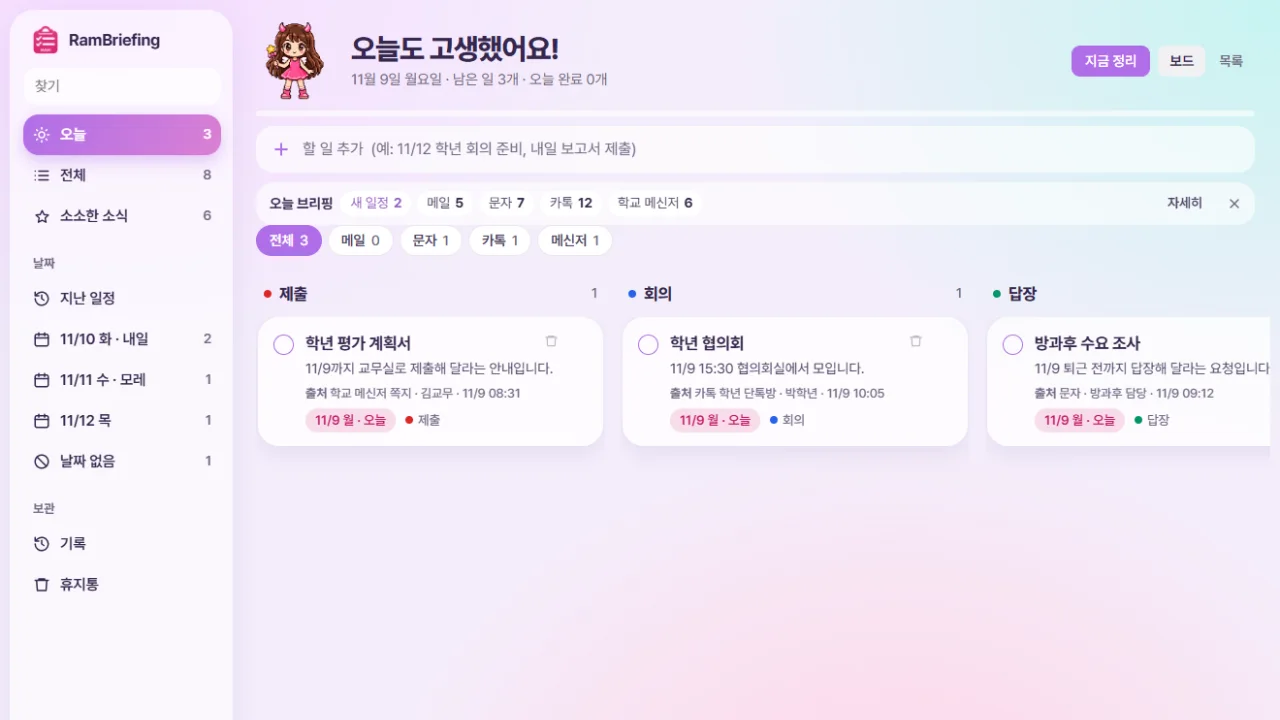
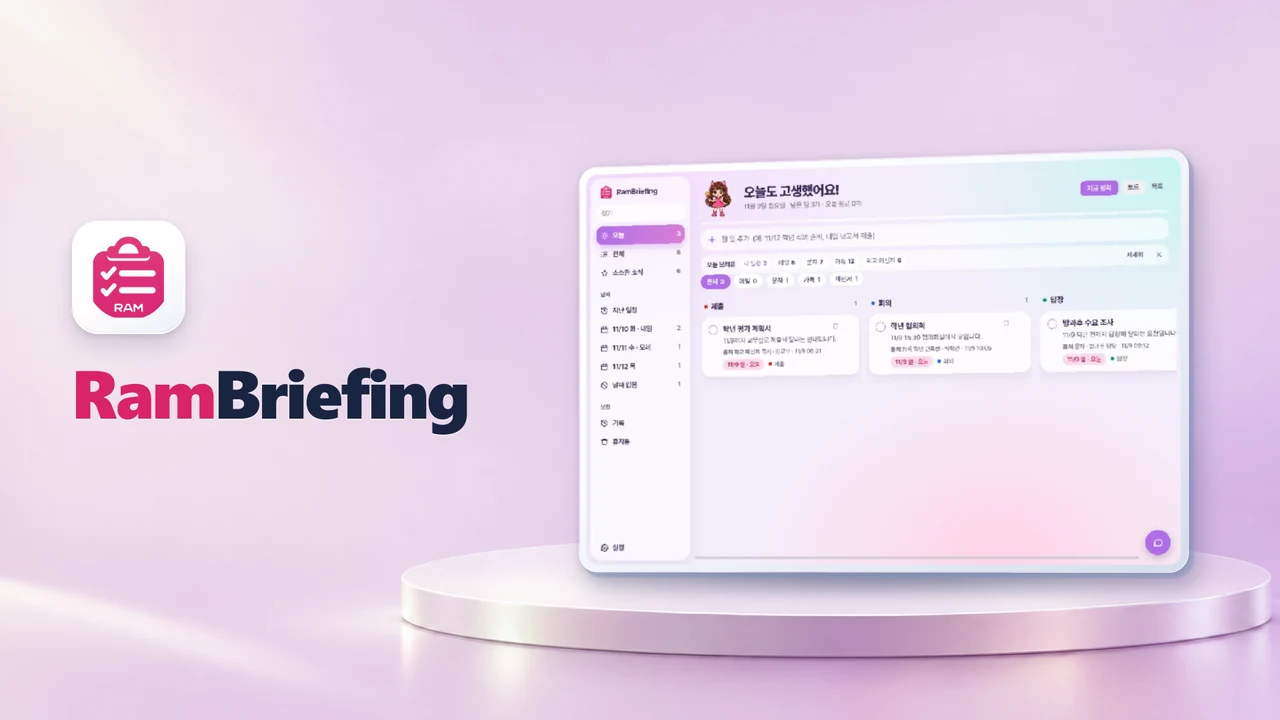
윈도우 앱 썸네일 6종 교체
Claude-Session: https://claude.ai/code/session_01GAFtkmkAShqGxSHJr2soeh

diff --git a/index.html b/index.html
@@ -3,7 +3,7 @@
 <head>
 <meta charset="utf-8">
 <meta http-equiv="Cache-Control" content="no-cache, no-store, must-revalidate"><meta http-equiv="Pragma" content="no-cache"><meta http-equiv="Expires" content="0">
-<script>(function(){var B="1794395400";fetch("version.json?t="+Date.now(),{cache:"no-store"}).then(function(r){return r.json()}).then(function(j){if(j&&j.v&&j.v!==B){var k="yr_rl_"+j.v;try{if(sessionStorage.getItem(k))return;sessionStorage.setItem(k,"1")}catch(e){}var u=new URL(location.href);u.searchParams.set("v",j.v);location.replace(u.toString())}}).catch(function(){})})();</script>
+<script>(function(){var B="1794397469";fetch("version.json?t="+Date.now(),{cache:"no-store"}).then(function(r){return r.json()}).then(function(j){if(j&&j.v&&j.v!==B){var k="yr_rl_"+j.v;try{if(sessionStorage.getItem(k))return;sessionStorage.setItem(k,"1")}catch(e){}var u=new URL(location.href);u.searchParams.set("v",j.v);location.replace(u.toString())}}).catch(function(){})})();</script>
 <meta name="color-scheme" content="light only">
 <meta name="viewport" content="width=device-width,initial-scale=1,viewport-fit=cover">
 <meta name="description" content="초등교사 김예람(예람쌤) — AI 영상·교육 콘텐츠 제작 연수, 영상·웹앱 콘텐츠, 연수 교안과 수업 자료">
@@ -1512,12 +1512,12 @@ const ARCHIVE={
     {t:"피자로 배우는 삼권분립",d:"피자 나누기로 권력을 나누는 이유를 알아보는 사회 수업 앱",tag:"웹앱",y:"2026",img:"apps/pizza.webp?v=4",url:"https://dpfkadpfka.github.io/pizza-samgwon/"},
     {t:"글자 조합 놀이터",d:"친구들이 모은 낱말을 글자로 쪼개 새 낱말 만들기",tag:"웹앱",y:"2026",img:"apps/jamo.webp?v=5",url:"https://dpfkadpfka.github.io/jamo-play/"},
     {t:"자리 바꾸기 레이스",d:"태블릿을 연타해 동물이 도착한 순서대로 자리 고르기",tag:"웹앱",y:"2026",img:"apps/seatrace.webp?v=5",url:"https://dpfkadpfka.github.io/yeram-ai-video/seat-race/"},
-    {t:"RamClock",d:"시간표·타이머·뽑기·투표·쉬는 시간 종소리를 한 화면에 띄우는 교실 시계 위젯",tag:"윈도우 앱",y:"2026",img:"apps/ramclock.webp?v=5",url:"https://github.com/dpfkadpfka/RamClock#readme"},
-    {t:"RamBot",d:"말로 글자를 입력하고 앱을 열고 AI에게 묻는 바탕화면 캐릭터 도우미",tag:"윈도우 앱",y:"2026",img:"apps/rambot.webp?v=1",url:"https://github.com/dpfkadpfka/RamBot#readme"},
-    {t:"RamSpirit",d:"ChatGPT·Gemini·Grok·Claude를 한 창에 띄우고 질문을 한 번에 보내는 프로그램",tag:"윈도우 앱",y:"2026",img:"apps/ramspirit.webp?v=4",url:"https://github.com/dpfkadpfka/RamSpirit#readme"},
-    {t:"RamCalendar",d:"메신저 글을 붙여넣으면 일정 등록까지 — 구글 캘린더 바탕화면 달력",tag:"윈도우 앱",y:"2026",img:"apps/calendar.webp?v=4",url:"https://github.com/dpfkadpfka/RamCalendar#readme"},
-    {t:"RamGroupTalk",d:"여러 단톡방 대화를 자동으로 저장하고, AI가 공모전·연수·업무 소식만 주제별 카드로 정리",tag:"윈도우 앱",y:"2026",img:"apps/ramgrouptalk.webp?v=2",url:"https://github.com/dpfkadpfka/RamGroupTalk#readme"},
-    {t:"RamBriefing",d:"아침마다 카톡·문자·메일·학교 메신저를 대신 읽어 오늘 할 일과 소소한 소식으로 정리",tag:"윈도우 앱",y:"2026",img:"apps/rambriefing.webp?v=1",url:"https://github.com/dpfkadpfka/RamBriefing#readme"},
+    {t:"RamClock",d:"시간표·타이머·뽑기·투표·쉬는 시간 종소리를 한 화면에 띄우는 교실 시계 위젯",tag:"윈도우 앱",y:"2026",img:"apps/ramclock.webp?v=6",url:"https://github.com/dpfkadpfka/RamClock#readme"},
+    {t:"RamBot",d:"말로 글자를 입력하고 앱을 열고 AI에게 묻는 바탕화면 캐릭터 도우미",tag:"윈도우 앱",y:"2026",img:"apps/rambot.webp?v=2",url:"https://github.com/dpfkadpfka/RamBot#readme"},
+    {t:"RamSpirit",d:"ChatGPT·Gemini·Grok·Claude를 한 창에 띄우고 질문을 한 번에 보내는 프로그램",tag:"윈도우 앱",y:"2026",img:"apps/ramspirit.webp?v=5",url:"https://github.com/dpfkadpfka/RamSpirit#readme"},
+    {t:"RamCalendar",d:"메신저 글을 붙여넣으면 일정 등록까지 — 구글 캘린더 바탕화면 달력",tag:"윈도우 앱",y:"2026",img:"apps/calendar.webp?v=5",url:"https://github.com/dpfkadpfka/RamCalendar#readme"},
+    {t:"RamGroupTalk",d:"여러 단톡방 대화를 자동으로 저장하고, AI가 공모전·연수·업무 소식만 주제별 카드로 정리",tag:"윈도우 앱",y:"2026",img:"apps/ramgrouptalk.webp?v=3",url:"https://github.com/dpfkadpfka/RamGroupTalk#readme"},
+    {t:"RamBriefing",d:"아침마다 카톡·문자·메일·학교 메신저를 대신 읽어 오늘 할 일과 소소한 소식으로 정리",tag:"윈도우 앱",y:"2026",img:"apps/rambriefing.webp?v=2",url:"https://github.com/dpfkadpfka/RamBriefing#readme"},
[1 lines of base64/hex data omitted]
   ],
   promo:[
